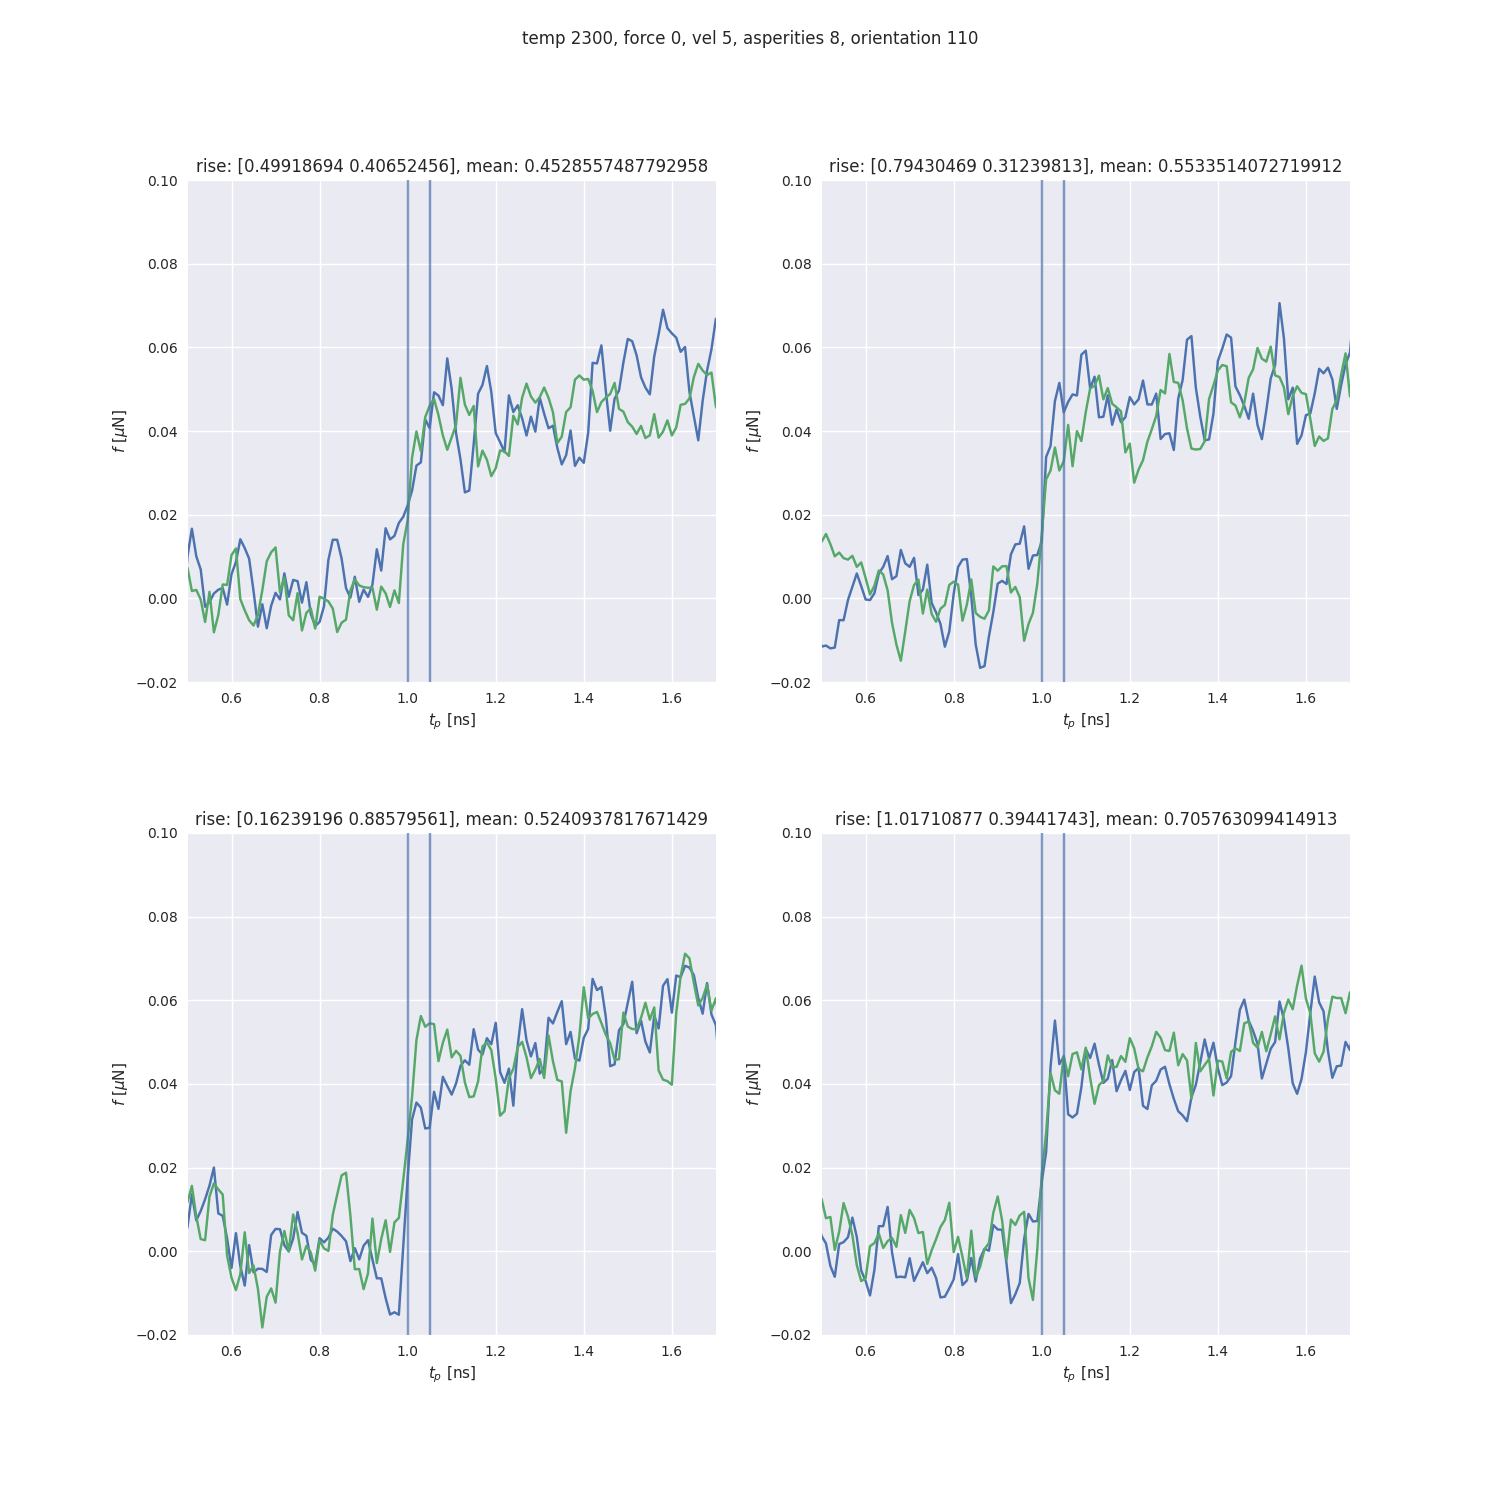
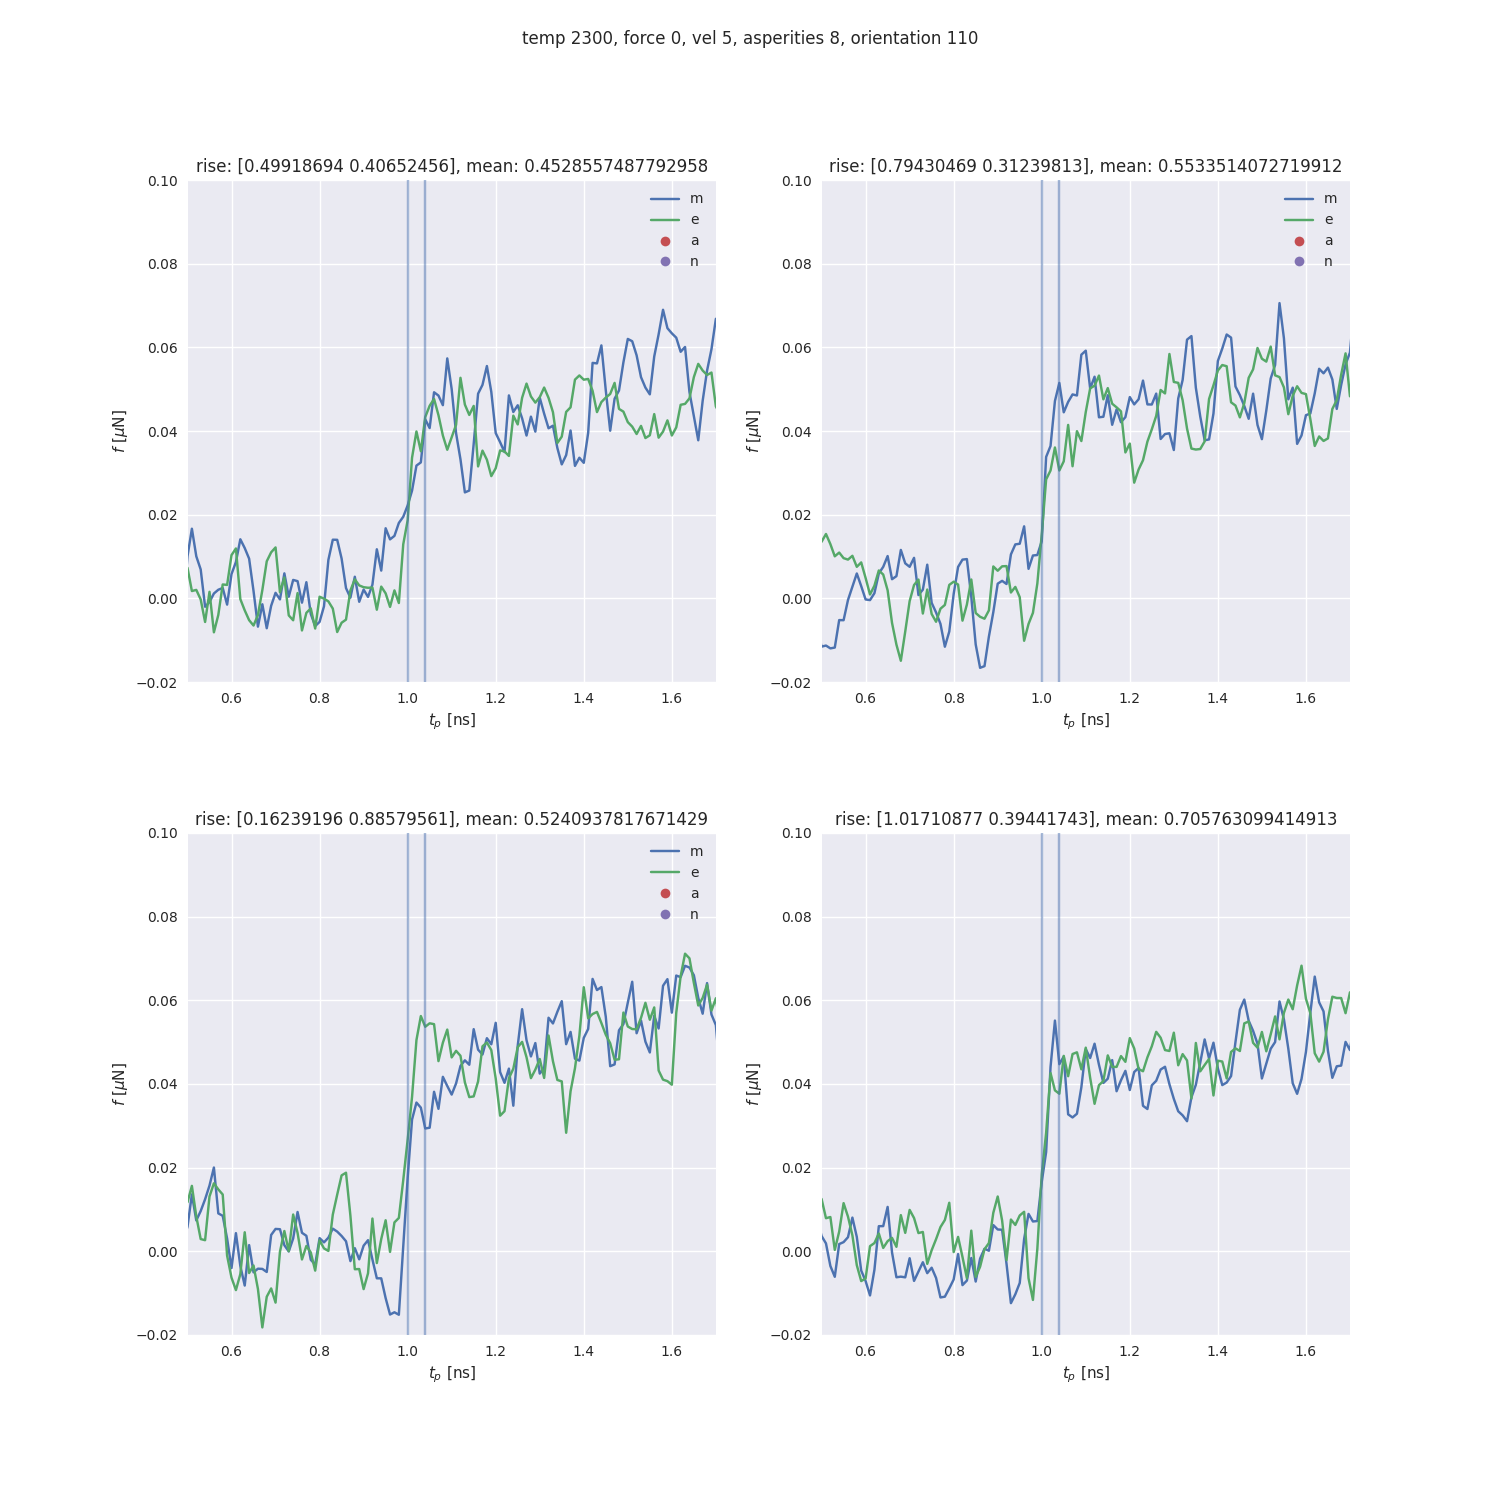
updated labels

diff --git a/python/plot/plot_load_curves.py b/python/plot/plot_load_curves.py
@@ -484,6 +484,7 @@ def plot_production(temp, vel, force, uc, asperities, time, orientation, grid, e
                                                     grid, template_r,0, seeds, production)
 
         
+        
         print(rise_all, rise_mean)
         #extract system setup from auxiliary folder
         if asperities == 8:
@@ -524,13 +525,14 @@ def plot_production(temp, vel, force, uc, asperities, time, orientation, grid, e
             axs[i].set_title(man_init_strange[i])
         
         push_start_indx = (np.abs(load_curves_all[0][:,0] - 1.0)).argmin()
-        push_stop_indx = (np.abs(load_curves_all[0][:,0] - 1.05)).argmin()
+        push_stop_indx = (np.abs(load_curves_all[0][:,0] - 1.04)).argmin()
 
         axs[i].set_ylim(bottom = -0.02, top = 0.1)
         axs[i].set_xlim(left = 0.5, right = 1.7)
+        axs[i].legend(f'mean rise: {rise_mean}') 
         
-        axs[i].axvline(load_curves_all[0][push_start_indx,0], alpha = 0.7)
-        axs[i].axvline(load_curves_all[0][push_stop_indx,0], alpha = 0.7)
+        axs[i].axvline(load_curves_all[0][push_start_indx,0], alpha = 0.5)
+        axs[i].axvline(load_curves_all[0][push_stop_indx,0], alpha = 0.5)
     plt.subplots_adjust(hspace=0.3)
     plt.suptitle(f"temp {temp}, force {force}, vel {vel}, asperities {asperities}, orientation {orientation}")
     plt.legend()
